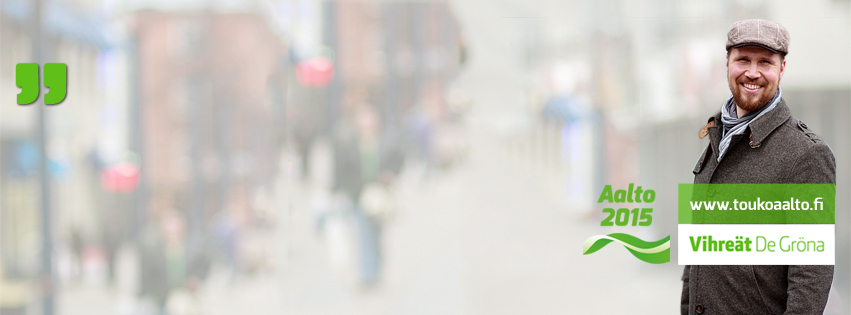
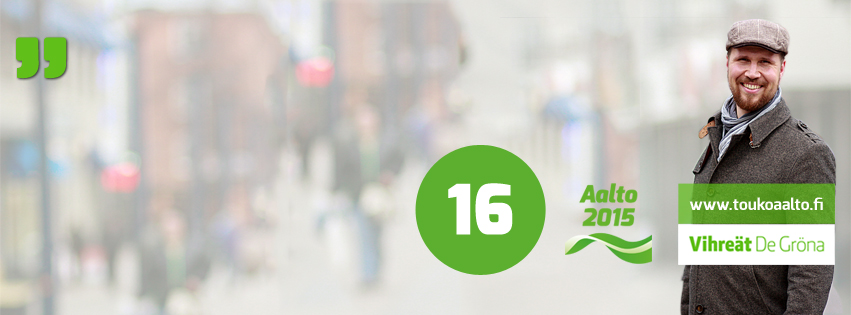
new base image with candidate number

Changed region(s): [[0.4888, 0.4571, 0.7944, 0.8857], [0.0, 0.1143, 0.0917, 0.3429]]

diff --git a/app/models/photo.rb b/app/models/photo.rb
@@ -11,8 +11,8 @@ class Photo < ActiveRecord::Base
   STARTS = ['Äänestän Toukoa, koska ','Tuen Toukoa, koska ', 'Kannatan Toukoa, koska ']
   POSITION_1 = '+78+55'
   POSITION_2 = '+78+100'
-  POSITION_3 = '+190+145'
-  POSITION_4 = '+220+190'
+  POSITION_3 = '+78+145'
+  POSITION_4 = '+78+190'
 
   # mogrify options
   IMAGE_FILE = 'aalto15-fb-cover-no-text.jpg'
@@ -25,11 +25,11 @@ class Photo < ActiveRecord::Base
   ROW_1_START = 0
   ROW_1_END = 8
   ROW_2_START = 8
-  ROW_2_END = 32
-  ROW_3_START = 32
-  ROW_3_END = 50
-  ROW_4_START = 50
-  ROW_4_END = 64
+  ROW_2_END = 28
+  ROW_3_START = 28
+  ROW_3_END = 40
+  ROW_4_START = 40
+  ROW_4_END = 52
 
   # Master method to really create the image and control workflow
   def addtext(url)
